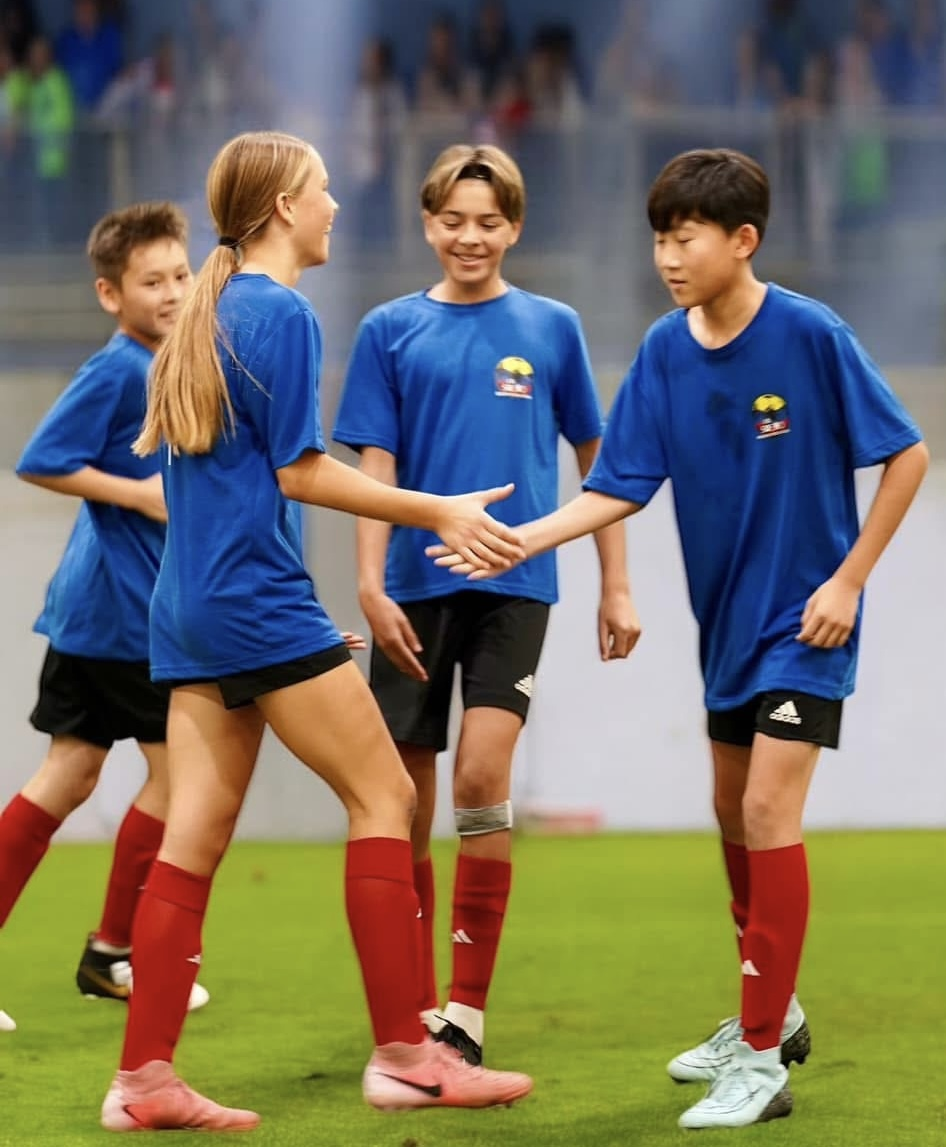
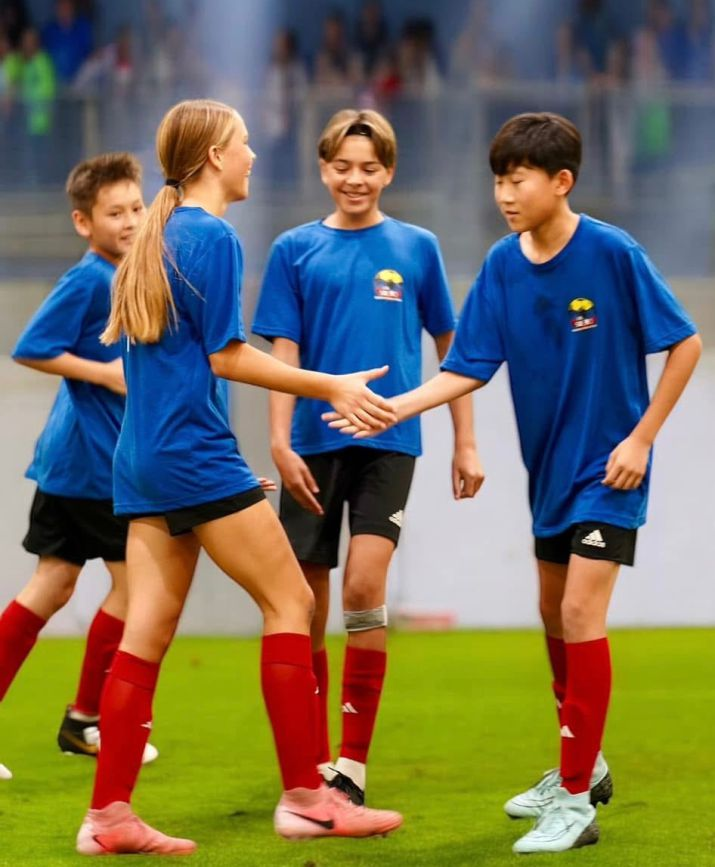
alteracoesFotos

diff --git a/index.html b/index.html
@@ -492,7 +492,7 @@
                 <div class="col-12 col-md-6 col-lg-3 item gallery-image">
                     <div class="item-wrapper mb-3" data-toggle="modal" data-bs-toggle="modal"
                         data-target="#u91hL7xuo4-modal" data-bs-target="#u91hL7xuo4-modal">
-                        <img class="w-100" src="assets/images/02-739x554.jpg" alt="Mobirise Website Builder"
+                        <img class="w-100" src="assets/images/12-582x431.jpg" alt="Mobirise Website Builder"
                             data-slide-to="1" data-bs-slide-to="1" data-target="#lb-u91hL7xuo4"
                             data-bs-target="#lb-u91hL7xuo4">
                         <div class="icon-wrapper">
@@ -599,7 +599,7 @@
                                             alt="Mobirise Website Builder">
                                     </div>
                                     <div class="carousel-item">
-                                        <img class="d-block w-100" src="assets/images/02-739x554.jpg"
+                                        <img class="d-block w-100" src="assets/images/12-582x636.jpg"
                                             alt="Mobirise Website Builder">
                                     </div>
                                     <div class="carousel-item">
